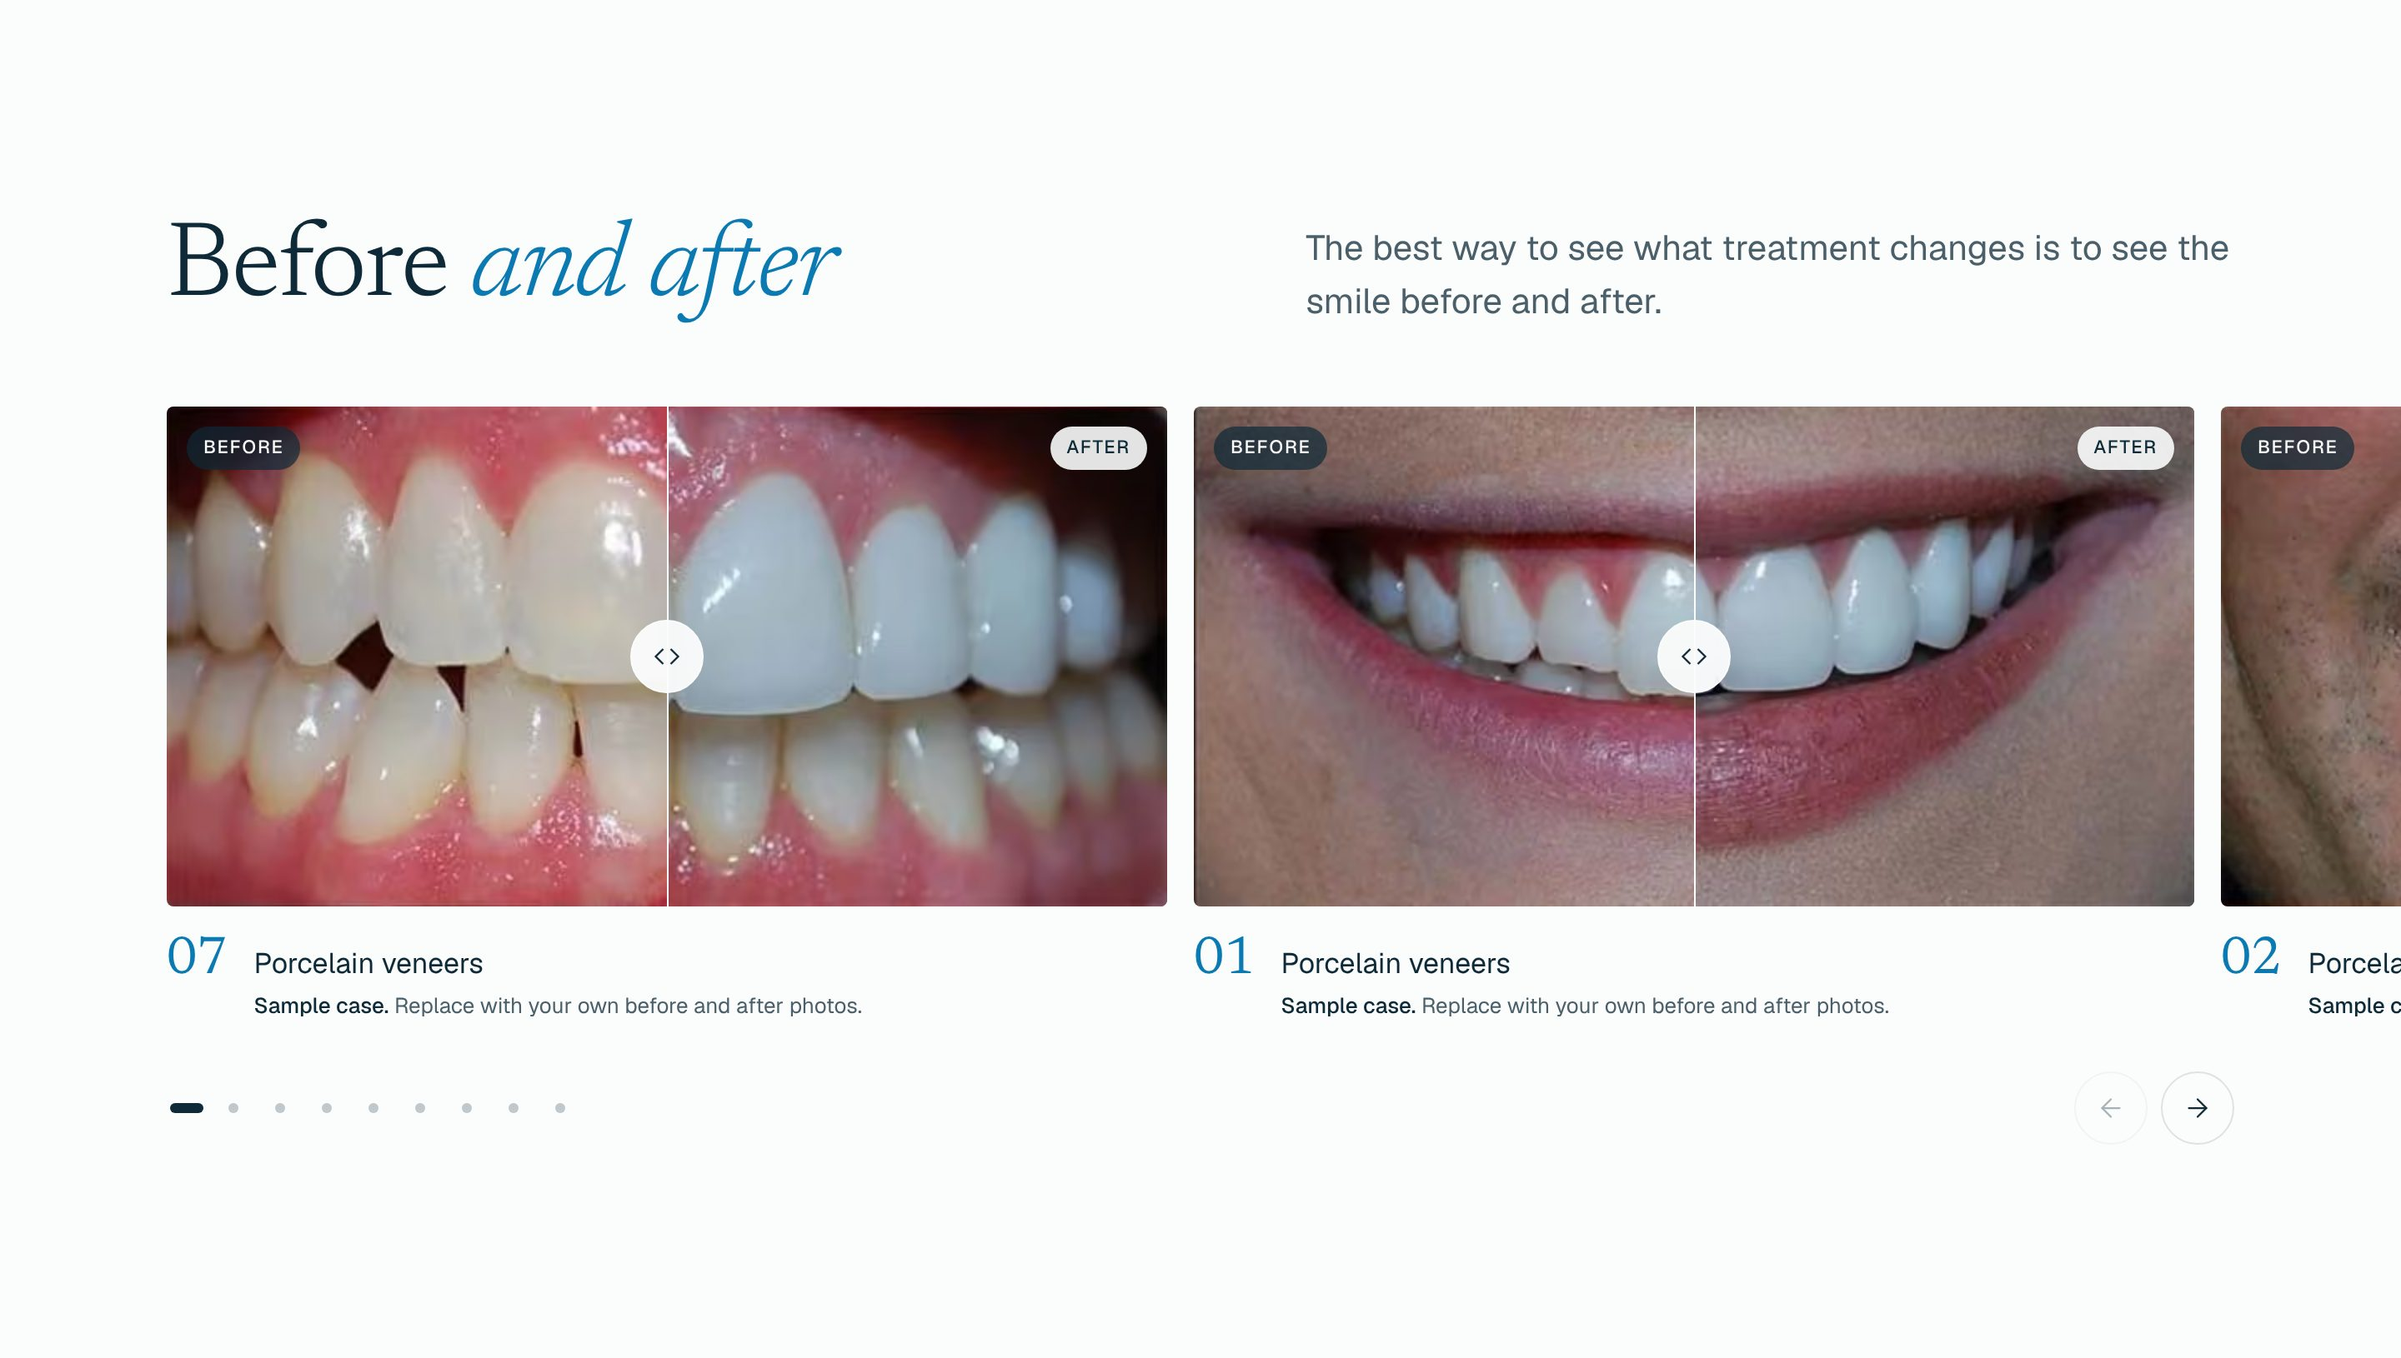
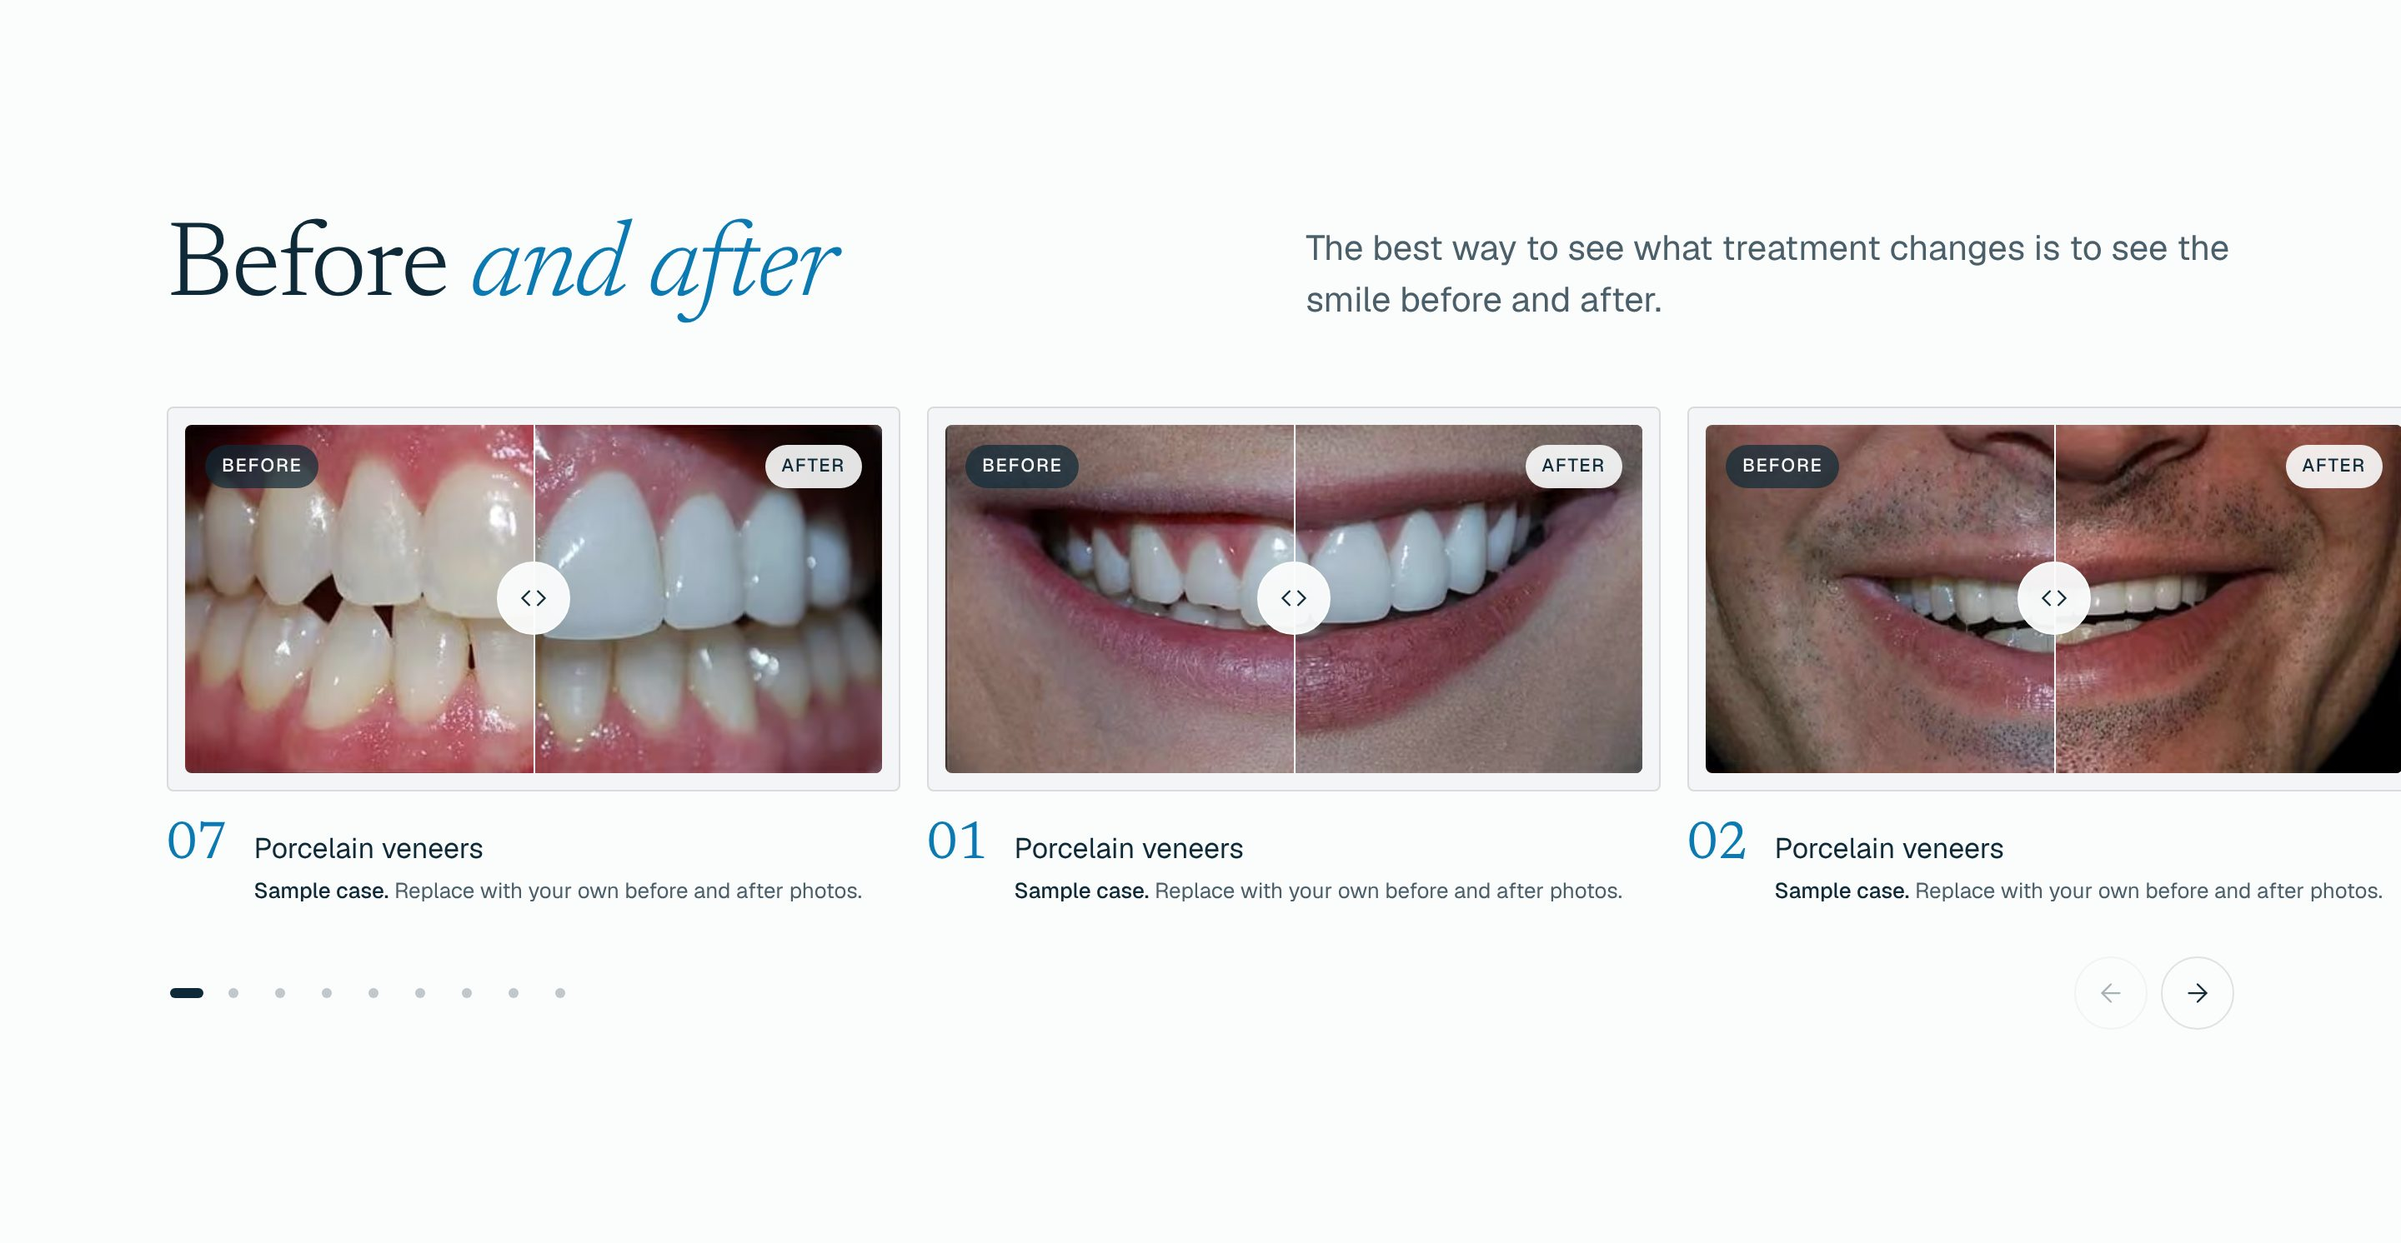
Second review fixes: office services grouped by category, matted before and after cards, aligned CTA buttons, print and capture rendering for deferred sections; fact audit: drop invented billing lines, cautious anesthesia wording, nearby-area lines, trademark DRAFT flags, plan-figure wording
Claude-Session: https://claude.ai/code/session_013uExWAyv2EJYn2FW38paxh

diff --git a/components/templates/LocationTemplate.tsx b/components/templates/LocationTemplate.tsx
@@ -1,7 +1,9 @@
 import { ArrowUpRight, Clock, MapPin, Phone } from "lucide-react";
 import { PageHero } from "./PageHero";
 import { Deferred } from "@/components/ui/Deferred";
-import { ServiceCard } from "./Cards";
+import Link from "@/components/ui/Link";
+import { categories } from "@/content/categories";
+import { serviceBySlug, serviceMeta } from "@/content/services";
 import { FaqSection } from "@/components/sections/home/FaqSection";
 import { MapFacade } from "@/components/sections/MapFacade";
 import { CtaPanel } from "@/components/sections/CtaPanel";
@@ -18,6 +20,11 @@ export const officePhoto: Record<Office["slug"], PhotoId> = { baltimore: "31", f
 
 export function LocationTemplate({ o }: { o: Office }) {
   const l = locations[o.slug];
+  // Group this office's services under their category hubs.
+  const groups = categories
+    .filter((c) => c.key !== "prosthodontics")
+    .map((c) => ({ key: c.key, name: c.name, services: l.services.filter((sv) => serviceMeta[sv].category === c.key) }))
+    .filter((g) => g.services.length);
   return (
     <>
       <JsonLd data={officeSchema(o)} />
@@ -82,14 +89,25 @@ export function LocationTemplate({ o }: { o: Office }) {
         <div className="wrap">
           <h2 id="here-title" className="text-h2">Care at our <em className="accent">{o.town}</em> office</h2>
           <p className="mt-5 max-w-[56ch] text-mute">These are the services patients most often come to us for. When you book, ask which services and which dentists are at this office.</p>
-          <ul className="mt-12 grid gap-3 sm:grid-cols-2 lg:grid-cols-3">
-            {/* DRAFT: confirm per office */}
-            {l.services.map((s) => (
-              <li key={s}>
-                <ServiceCard slug={s} />
-              </li>
+          {/* DRAFT: confirm per office */}
+          <div className="mt-12 flex flex-wrap gap-px overflow-hidden rounded-sm border border-line bg-line">
+            {groups.map((g) => (
+              <div key={g.key} className="grow basis-[200px] bg-paper p-6 md:p-7">
+                <h3 className="font-display text-[1.4rem] leading-tight">
+                  <Link href={routes.category(g.key)} className="hover:text-azure-deep">{g.name}</Link>
+                </h3>
+                <ul className="mt-4 space-y-2 text-[0.9375rem]">
+                  {g.services.map((sv) => (
+                    <li key={sv}>
+                      <Link href={routes.service(sv)} className="text-mute underline decoration-line underline-offset-4 hover:text-ink hover:decoration-ink">
+                        {serviceBySlug(sv).name}
+                      </Link>
+                    </li>
+                  ))}
+                </ul>
+              </div>
             ))}
-          </ul>
+          </div>
         </div>
       </section>
 

diff --git a/content/pages.ts b/content/pages.ts
@@ -151,7 +151,7 @@ export const pricing: {
     },
     {
       q: "What should I bring to my first visit?",
-      a: "Bring dental x-rays from the last two years if you have them. If not, we take them here, and they are billed with your visit.",
+      a: "Bring dental x-rays from the last two years if you have them. If not, we take them here.",
     },
     {
       q: "Do you take insurance?",
@@ -395,7 +395,7 @@ export const locations: Record<
       "Our Baltimore, Maryland office is our flagship, in Harbor East. It is open every weekday from 7 AM to 8 PM.", // DRAFT: landmark
     services: officeServices, // DRAFT: confirm per office
     howToFind: howToFindPlaceholder,
-    nearby: "Patients also come from Towson, Canton and Fells Point.", // DRAFT
+    nearby: "Close to Towson, Canton and Fells Point.", // DRAFT: nearby areas served
     faq: [
       {
         q: "What are the Baltimore office's hours?",
@@ -416,7 +416,7 @@ export const locations: Record<
       "Our Frederick, Maryland office is in Downtown Frederick. It is open every weekday from 7 AM to 8 PM, so you can come before or after work or school.", // DRAFT: landmark
     services: officeServices, // DRAFT: confirm per office
     howToFind: howToFindPlaceholder,
-    nearby: "Patients also come from Middletown, Urbana and Walkersville.", // DRAFT
+    nearby: "Close to Middletown, Urbana and Walkersville.", // DRAFT: nearby areas served
     faq: [
       {
         q: "How do I book at the Frederick office?",
@@ -437,7 +437,7 @@ export const locations: Record<
       "Our Leonardtown, Maryland office is near the town square and serves patients across St. Mary's County. It is open every weekday from 7 AM to 8 PM.", // DRAFT: landmark
     services: officeServices, // DRAFT: confirm per office
     howToFind: howToFindPlaceholder,
-    nearby: "Patients also come from Hollywood, California and Lexington Park.", // DRAFT
+    nearby: "Close to Lexington Park, Hollywood and California, MD.", // DRAFT: nearby areas served
     faq: [
       {
         q: "Which services are available at the Leonardtown office?",
@@ -458,7 +458,7 @@ export const locations: Record<
       "Our Annapolis, Maryland office is our newest. It keeps the same hours as every Aurelle office: weekdays from 7 AM to 8 PM.",
     services: officeServices, // DRAFT: confirm per office
     howToFind: howToFindPlaceholder,
-    nearby: "Patients also come from Arnold, Severna Park and Edgewater.", // DRAFT
+    nearby: "Close to Arnold, Severna Park and Edgewater.", // DRAFT: nearby areas served
     faq: [
       {
         q: "Is the Annapolis office new?",

diff --git a/components/sections/CtaPanel.tsx b/components/sections/CtaPanel.tsx
@@ -15,20 +15,20 @@ export function CtaPanel({ reason, office }: { reason?: VisitReason; office?: im
             <p className="mx-auto mt-5 max-w-[44ch] text-lead text-mute">Choose what you need. We can call you, or you can call us.</p>
           </div>
           <div className="mt-12 grid gap-10 md:grid-cols-2 md:gap-0 md:divide-x md:divide-line">
-            <div className="text-center md:px-10">
+            <div className="flex flex-col items-center text-center md:px-10">
               <h3 className="font-display text-[1.75rem]">Dentistry</h3>
               <p className="mt-2 text-mute">Exams, treatment, crowns and implants.</p>
-              <div className="mt-6 flex flex-wrap justify-center gap-2">
+              <div className="mt-auto flex flex-wrap justify-center gap-2 pt-6">
                 <BookButton reason={reason} office={office} />
                 <a href={business.phoneHref} className="btn btn-outline">
                   <Phone size={16} strokeWidth={1.5} aria-hidden="true" /> {business.phoneDisplay}
                 </a>
               </div>
             </div>
-            <div className="border-t border-line pt-10 text-center md:border-t-0 md:px-10 md:pt-0">
+            <div className="flex flex-col items-center border-t border-line pt-10 text-center md:border-t-0 md:px-10 md:pt-0">
               <h3 className="font-display text-[1.75rem]">Orthodontics and clear aligners</h3>
               <p className="mt-2 text-mute">A straight smile at any age, with braces almost no one notices.</p>
-              <div className="mt-6 flex flex-wrap justify-center gap-2">
+              <div className="mt-auto flex flex-wrap justify-center gap-2 pt-6">
                 <BookButton reason="ortho" office={office} label="Book a consultation" />
                 <a href={business.phoneHref} className="btn btn-outline">
                   <Phone size={16} strokeWidth={1.5} aria-hidden="true" /> {business.phoneDisplay}

diff --git a/content/services-b.ts b/content/services-b.ts
@@ -166,12 +166,12 @@ export const servicesB: Service[] = [
     // Filled from facts in the two veneer articles of the same source (whitening or veneers; bonding or veneers).
     after: [
       "Care for veneers as you would your own teeth: brush, clean between your teeth and come in for regular checkups and cleanings.",
-      "Porcelain holds its color and resists stains, but the teeth and gums around it still need daily care.",
+      "Porcelain usually holds its color and resists stains, but the teeth and gums around it still need daily care.",
     ],
     gains: [
       "Color, shape and size of your front teeth change all at once.",
-      "Gaps and chipped edges are covered.",
-      "Porcelain holds its color and resists stains.",
+      "Gaps and chipped edges can be covered.",
+      "Porcelain usually holds its color and resists stains.",
     ],
     faq: [
       {
@@ -342,6 +342,7 @@ export const servicesB: Service[] = [
     ],
   },
   {
+    // DRAFT: confirm provider status for the All-on-4 name (a trademark); otherwise rename to "Full-arch implant teeth".
     slug: "all-on-4",
     sourceSlug: "/all-on-4/",
     name: "All-on-4 and All-on-6",

diff --git a/components/sections/BeforeAfterRail.tsx b/components/sections/BeforeAfterRail.tsx
@@ -14,10 +14,12 @@ export function BeforeAfterRail({ headingId = "ba-title", tone = "paper" }: { he
           The best way to see what treatment changes is to see the smile before and after.
         </p>
       </div>
-      <Rail label="Sample before and after cases" itemClass="w-[calc(100vw-40px)] max-w-[600px] sm:w-[520px] lg:w-[600px]" className="mt-12">
+      <Rail label="Sample before and after cases" itemClass="w-[calc(100vw-40px)] max-w-[460px] sm:w-[440px]" className="mt-12">
         {sampleCases.map((c) => (
           <figure key={c.n}>
-            <BeforeAfter before={c.before} after={c.after} caseLabel={`Sample case ${c.n}`} sizes="(min-width: 640px) 600px, 100vw" />
+            <div className="rounded-sm border border-line bg-porcelain p-2.5">
+              <BeforeAfter before={c.before} after={c.after} caseLabel={`Sample case ${c.n}`} sizes="(min-width: 640px) 420px, 100vw" />
+            </div>
             <figcaption className="mt-4 flex items-baseline gap-4">
               <span className="font-display text-[2rem] leading-none text-azure">{c.n}</span>
               <span>

diff --git a/content/services-a.ts b/content/services-a.ts
@@ -46,7 +46,7 @@ export const servicesA: Service[] = [
     ],
     gains: [
       "Your procedure is planned from your x-rays or scan.",
-      "Local anesthesia keeps the procedure pain free.",
+      "We numb the area first, so you usually feel pressure but not pain.", // DRAFT: dentist to confirm
       "Clear instructions for healing.",
     ],
     faq: [
@@ -215,12 +215,12 @@ export const servicesA: Service[] = [
     gains: [
       "A more precise diagnosis and treatment plan.",
       "A 3D CBCT scan for careful, safe implant planning.",
-      "We take the image during the same visit.",
+      "We can take it here when you come in.",
     ],
     faq: [
       {
         q: "Do I need to bring a panoramic x-ray to my first visit?",
-        a: "It helps if you bring a panoramic x-ray from the last 2 years. If you don't have one, we take it here, and it is billed separately.",
+        a: "It helps if you bring a panoramic x-ray from the last 2 years. If you don't have one, we take it here.",
       },
     ],
     related: ["panoramic-x-ray", "3d-cbct-scan", "dental-implants"],

diff --git a/components/ui/BeforeAfter.tsx b/components/ui/BeforeAfter.tsx
@@ -51,14 +51,14 @@ export function BeforeAfter({ before, after, caseLabel, sizes, wide }: Props) {
       onPointerCancel={() => (dragging.current = false)}
       data-sample
     >
-      <Image src={b.src} width={b.width} height={b.height} sizes={sizes} alt={`${caseLabel}, before treatment`} className="pointer-events-none absolute inset-0 h-full w-full object-cover" draggable={false} />
+      <Image src={b.src} width={b.width} height={b.height} sizes={sizes} alt={`${caseLabel}, before treatment`} className="pointer-events-none absolute inset-0 h-full w-full object-cover [filter:saturate(0.85)_contrast(1.03)]" draggable={false} />
       <Image
         src={a.src}
         width={a.width}
         height={a.height}
         sizes={sizes}
         alt={`${caseLabel}, after treatment`}
-        className="pointer-events-none absolute inset-0 h-full w-full object-cover"
+        className="pointer-events-none absolute inset-0 h-full w-full object-cover [filter:saturate(0.85)_contrast(1.03)]"
         style={{ clipPath: `inset(0 0 0 ${pos}%)` }}
         draggable={false}
       />

diff --git a/components/layout/SiteFooter.tsx b/components/layout/SiteFooter.tsx
@@ -68,6 +68,7 @@ export function SiteFooter() {
               ))}
               <li><Link href={routes.service("dental-implants")} className="hover:text-mist hover:underline">Dental implants</Link></li>
               <li><Link href={routes.service("porcelain-veneers")} className="hover:text-mist hover:underline">Porcelain veneers</Link></li>
+              {/* DRAFT: confirm provider status for the Invisalign name */}
               <li><Link href={routes.service("invisalign")} className="hover:text-mist hover:underline">Invisalign</Link></li>
               <li><Link href={routes.service("teeth-cleaning")} className="hover:text-mist hover:underline">Teeth cleaning</Link></li>
               <li><Link href={routes.service("wisdom-teeth-removal")} className="hover:text-mist hover:underline">Wisdom teeth removal</Link></li>

diff --git a/lib/coverage.ts b/lib/coverage.ts
@@ -84,7 +84,7 @@ export const ppoTiers: Record<Exclude<CoverageNeed, "pain">, Tier> = {
   },
 };
 
-export const ppoFineprint = "After your deductible, up to your yearly maximum. Deductibles are commonly $25 to $100 a year and yearly maximums commonly $1,000 to $2,000.";
+export const ppoFineprint = "After your deductible, up to your yearly maximum. Across many US PPO plans, deductibles are commonly $25 to $100 a year and yearly maximums commonly $1,000 to $2,000.";
 export const otherPlanText = "Plans differ a lot. Bring your card and we will check your benefits before treatment.";
 export const disclaimer = "General guide, not a quote. Plans differ. You get a written estimate before any treatment.";
 

diff --git a/components/sections/home/CoverageSection.tsx b/components/sections/home/CoverageSection.tsx
@@ -7,7 +7,7 @@ export function CoverageSection() {
     <section id="coverage" aria-labelledby="coverage-title" className="bg-ice">
       <div className="mx-auto grid max-w-[1672px] lg:grid-cols-[minmax(0,5fr)_minmax(0,7fr)]">
         <div className="hidden lg:block">
-          <div className="sticky top-[72px] aspect-square max-h-[calc(100svh-72px)] w-full overflow-hidden">
+          <div className="sticky top-[72px] aspect-square max-h-[calc(100svh-72px)] w-full overflow-hidden bg-porcelain">
             <Photo id="13" cover sizes="(min-width: 1672px) 697px, 42vw" className="object-[50%_25%]" />
           </div>
         </div>

diff --git a/content/services-c.ts b/content/services-c.ts
@@ -161,6 +161,7 @@ export const servicesC: Service[] = [
     ],
   },
   {
+    // DRAFT: confirm provider status for the Invisalign name (a trademark); otherwise rename to "Clear aligners".
     slug: "invisalign",
     sourceSlug: "/invisalign/",
     name: "Invisalign",

diff --git a/app/globals.css b/app/globals.css
@@ -408,3 +408,9 @@ html[data-sheet="open"] .mobile-bar {
   content-visibility: auto;
   contain-intrinsic-size: auto 900px;
 }
+
+@media print {
+  .cv-auto {
+    content-visibility: visible;
+  }
+}
